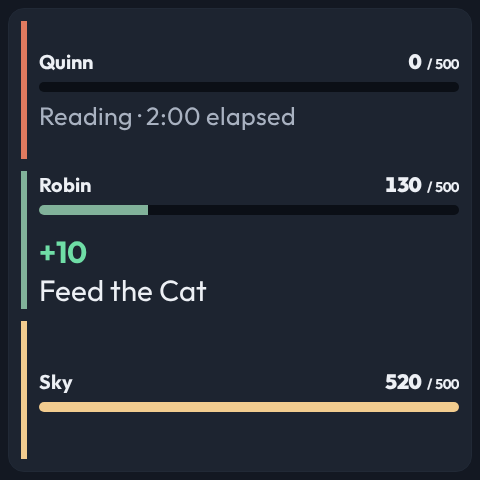
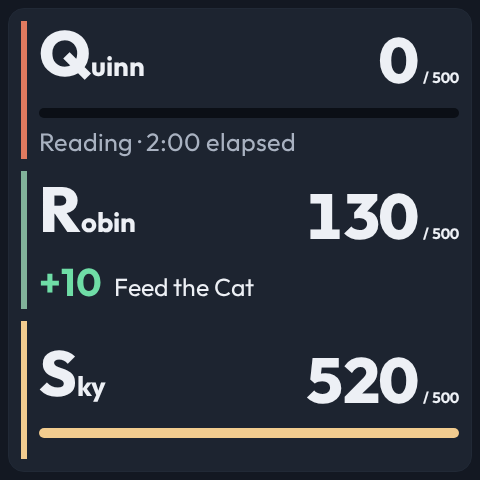
feat(points): prioritize child initials and earned totals

Changed region(s): [[0.0625, 0.0625, 0.9688, 0.3438], [0.0625, 0.7188, 0.9688, 0.9375], [0.0625, 0.3438, 0.9688, 0.625]]

diff --git a/packages/slatecast/src/platform/KidsPoints.vrt.tsx b/packages/slatecast/src/platform/KidsPoints.vrt.tsx
@@ -371,6 +371,30 @@ test("a compact scan board can keep three children and two activities visible", 
   )
   expect(rows).toHaveLength(3)
   rows.forEach((row) => {
+    const name = row.querySelector("h3")
+    if (!name)
+      throw new Error("Each row must identify its child")
+    const nameSize = Number.parseFloat(
+      getComputedStyle(name).fontSize,
+    )
+    const initialSize = Number.parseFloat(
+      getComputedStyle(name, "::first-letter").fontSize,
+    )
+    expect(nameSize).toBeGreaterThanOrEqual(26)
+    expect(initialSize).toBeGreaterThanOrEqual(
+      nameSize * 1.6,
+    )
+    expect(name.scrollWidth).toBeLessThanOrEqual(
+      name.clientWidth + 1,
+    )
+    const total = row.querySelector(
+      ".kids-points-row-total strong",
+    )
+    if (!total)
+      throw new Error("Each row must show earned points")
+    expect(
+      Number.parseFloat(getComputedStyle(total).fontSize),
+    ).toBeGreaterThanOrEqual(60)
     expect(row.scrollHeight).toBeLessThanOrEqual(
       row.clientHeight + 1,
     )
@@ -401,4 +425,45 @@ test("the default compact scan still focuses on one child", async () => {
     }),
   )
   await capture("kids-points-default-scan-480x480")
+})
+
+test("large initials preserve complete longer names and totals on a compact board", async () => {
+  await page.viewport(480, 480)
+  const snapshot = compactBoardSnapshot({
+    isAllChildrenVisible: true,
+    hasScan: false,
+  })
+  const channel = snapshot.channels.points!
+  const data =
+    channel.data as ContractData["kids-points.v1"]
+  renderDevicePage({
+    ...snapshot,
+    channels: {
+      points: {
+        ...channel,
+        data: {
+          ...data,
+          kids: data.kids.map((kid, index) => ({
+            ...kid,
+            name:
+              ["Alexandra", "Robin", "Christopher"][
+                index
+              ] ?? kid.name,
+            pointsToday: 1234,
+          })),
+        },
+      },
+    },
+  })
+  await document.fonts.ready
+  document
+    .querySelectorAll(".kids-points-row h3")
+    .forEach((name) => {
+      expect(name.scrollWidth).toBeLessThanOrEqual(
+        name.clientWidth + 1,
+      )
+    })
+  await capture(
+    "kids-points-all-children-long-names-480x480",
+  )
 })

diff --git a/packages/slatecast/src/platform/platform.css b/packages/slatecast/src/platform/platform.css
@@ -1468,6 +1468,50 @@
   white-space: nowrap;
   text-overflow: ellipsis;
 }
+.kids-points-rows[data-all-children="true"]
+  .kids-points-row-head {
+  align-items: center;
+}
+/* The compact board is read at a distance: a large initial anchors each name. */
+.kids-points-rows[data-all-children="true"] .kids-points-row
+  h3 {
+  font-size: clamp(24px, 20cqb, 32px);
+  line-height: 2.4;
+}
+.kids-points-rows[data-all-children="true"]
+  .kids-points-row
+  h3::first-letter {
+  font-size: clamp(48px, 46cqb, 72px);
+  font-weight: 800;
+  line-height: 1;
+}
+.kids-points-rows[data-all-children="true"]
+  .kids-points-scan {
+  flex-direction: row;
+  align-items: baseline;
+  gap: 12px;
+}
+.kids-points-rows[data-all-children="true"]
+  .kids-points-scan-headline {
+  flex: none;
+  font-size: clamp(28px, 28cqb, 40px);
+}
+.kids-points-rows[data-all-children="true"]
+  .kids-points-scan-detail {
+  font-size: clamp(18px, 18cqb, 26px);
+  -webkit-line-clamp: 1;
+}
+.kids-points-rows[data-all-children="true"]
+  .kids-points-row-total {
+  font-size: clamp(12px, 11cqb, 18px);
+}
+.kids-points-rows[data-all-children="true"]
+  .kids-points-row-total
+  strong {
+  font-size: clamp(48px, 46cqb, 72px);
+  font-weight: 800;
+  line-height: 1;
+}
 .kids-points-row-total {
   display: flex;
   align-items: baseline;

diff --git a/packages/slatecast/src/platform/KidsPointsView.tsx b/packages/slatecast/src/platform/KidsPointsView.tsx
@@ -487,8 +487,8 @@ const KidRow = ({
         )}
       </span>
     </div>
-    <GoalBar kid={kid} />
-    {now === undefined ? null : (
+    {scan ? null : <GoalBar kid={kid} />}
+    {now === undefined || scan ? null : (
       <CompactActivity
         kid={kid}
         now={now}
@@ -626,7 +626,10 @@ export const KidsPointsView = ({
         ))}
       </div>
     ) : settings?.isAllChildrenVisible === true ? (
-      <div class="kids-points-rows">
+      <div
+        class="kids-points-rows"
+        data-all-children="true"
+      >
         {data.kids.slice(0, layout.rowCount).map((kid) => (
           <KidRow
             key={kid.id}

diff --git a/docs/kids-points-view.md b/docs/kids-points-view.md
@@ -21,11 +21,18 @@ draws what that service already published.
 Enable **Keep the board visible during scans** (`isAllChildrenVisible`) to use
 compact rows rather than focusing on one child. A three-child board fits a
 480×480 panel: all totals stay visible for the configured scan duration,
-with feedback beside the child who scanned. Running activities remain on their
-own rows, including simultaneous count-up and countdown activities. Instant
-panels show seconds; slower panels use whole minutes. Larger panels keep their
-existing complete cards, and panels with more children than readable rows report
-the remaining count.
+with feedback beside the child who scanned.
+
+The child’s initial and earned points total have equal prominence. Large
+initials anchor each name, with the remaining letters also enlarged for reading
+at a distance. The daily goal stays smaller. Scan awards are prominent; scan
+feedback uses one line and temporarily replaces that child’s activity label and
+goal bar. Other children’s timers stay visible.
+
+Running activities remain on their own rows, including simultaneous count-up
+and countdown activities. Instant panels show seconds; slower panels use whole
+minutes. Larger panels keep their existing complete cards, and panels with more
+children than readable rows report the remaining count.
 
 ![Three children stay visible during a scan on a 480×480 panel](images/kids-points-compact/after.png)
 
